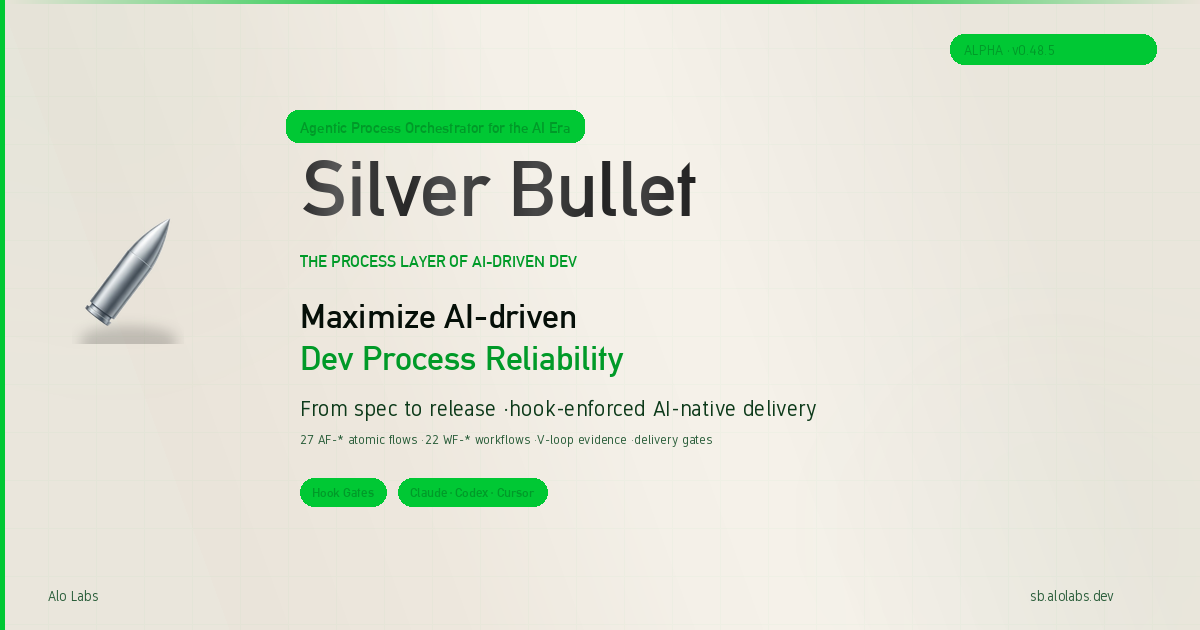
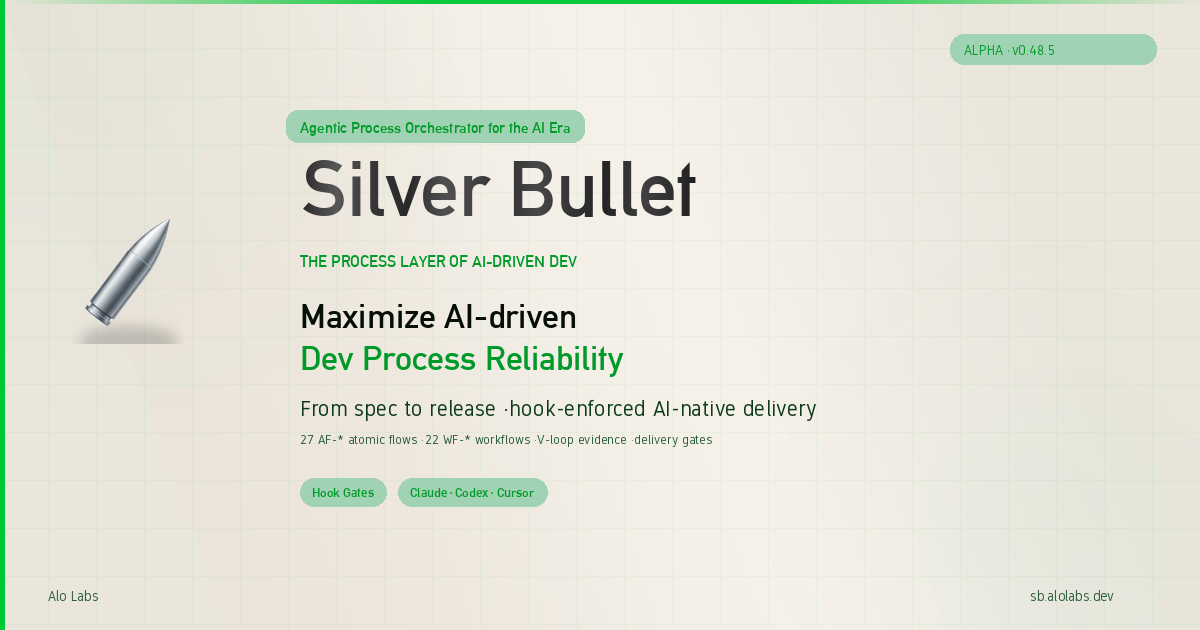
fix(site): align OG image greens with design tokens
Load accent, accent-light, grad, mint, and text colors from tokens.css
in gen_og_image.py so the PNG cannot drift from the homepage palette.
Switch pill/badge chrome to mint token fills and borders matching the
hero, and wire og-card.html through tokens.css CSS custom properties.

Changed region(s): [[0.2158, 0.1508, 0.4933, 0.2413], [0.7708, 0.0302, 0.9867, 0.1206], [0.2467, 0.754, 0.4625, 0.8143]]

diff --git a/site/og-card.html b/site/og-card.html
@@ -3,29 +3,25 @@
 <head>
 <meta charset="utf-8">
 <title>Silver Bullet Social Preview (light)</title>
+<link rel="stylesheet" href="tokens.css">
 <link rel="preconnect" href="https://fonts.googleapis.com">
 <link rel="preconnect" href="https://fonts.gstatic.com" crossorigin>
 <link href="https://fonts.googleapis.com/css2?family=IBM+Plex+Mono:wght@500;600&display=swap" rel="stylesheet">
 <style>
-  @font-face{
-    font-family:'D-Din';
-    src:url('fonts/D-DIN-Bold.woff2') format('woff2');
-    font-weight:700;font-style:normal;font-display:swap;
-  }
   *{margin:0;padding:0;box-sizing:border-box}
   html,body{width:1200px;height:630px;overflow:hidden}
   body{
-    background:linear-gradient(160deg,#eae4da 0%,#eee8de 25%,#f4f0e8 48%,#f6f2ea 62%,#f0ece4 80%,#eae6dc 100%);
-    font-family:'D-Din',system-ui,sans-serif;
+    background:var(--bg-hero);
+    font-family:var(--font-heading);
     position:relative;
-    color:#050f08;
+    color:var(--text-primary);
   }
 
   .grid-bg{
     position:absolute;inset:0;
     background-image:
-      linear-gradient(rgba(0,200,52,.05) 1px,transparent 1px),
-      linear-gradient(90deg,rgba(0,200,52,.05) 1px,transparent 1px);
+      linear-gradient(color-mix(in srgb, var(--accent) 5%, transparent) 1px, transparent 1px),
+      linear-gradient(90deg, color-mix(in srgb, var(--accent) 5%, transparent) 1px, transparent 1px);
     background-size:48px 48px;
     mask-image:radial-gradient(ellipse 80% 70% at 30% 50%,#000 20%,transparent 75%);
     pointer-events:none;
@@ -33,32 +29,32 @@
 
   .glow-left{
     position:absolute;width:520px;height:520px;border-radius:50%;
-    background:radial-gradient(circle,rgba(160,210,180,.28) 0%,transparent 68%);
+    background:radial-gradient(circle,var(--mint-a28) 0%,transparent 68%);
     top:50%;left:18%;transform:translate(-50%,-50%);pointer-events:none;
   }
   .glow-right{
     position:absolute;width:400px;height:400px;border-radius:50%;
-    background:radial-gradient(circle,rgba(160,210,180,.18) 0%,transparent 70%);
+    background:radial-gradient(circle,var(--mint-a18) 0%,transparent 70%);
     bottom:-80px;right:-40px;pointer-events:none;
   }
 
   .border-top{
     position:absolute;top:0;left:0;right:0;height:3px;
-    background:linear-gradient(90deg,transparent 5%,#00c834 35%,#009a28 50%,#00c834 65%,transparent 95%);
+    background:linear-gradient(90deg,transparent 5%,var(--accent) 35%,var(--accent-light) 50%,var(--accent) 65%,transparent 95%);
   }
   .border-left{
     position:absolute;top:0;left:0;bottom:0;width:4px;
-    background:linear-gradient(180deg,#00c834,#006fa8 55%,transparent);
+    background:linear-gradient(180deg,var(--accent),var(--accent2) 55%,transparent);
     opacity:.75;
   }
 
   .version-badge{
     position:absolute;top:28px;right:36px;
-    font-family:'IBM Plex Mono',monospace;
+    font-family:var(--font-mono);
     font-size:12px;font-weight:600;letter-spacing:.06em;
-    color:#009a28;
-    background:rgba(0,200,52,.10);
-    border:1px solid rgba(0,200,52,.35);
+    color:var(--accent-light);
+    background:linear-gradient(135deg,var(--mint-a14),var(--accent-a08),var(--mint-a12));
+    border:1px solid var(--mint-a35);
     border-radius:999px;
     padding:6px 14px;
     z-index:2;
@@ -76,7 +72,7 @@
   }
   .bullet{
     width:120px;
-    filter:drop-shadow(0 8px 24px rgba(0,200,52,.12)) drop-shadow(3px 6px 10px rgba(0,0,0,.18));
+    filter:drop-shadow(0 8px 24px var(--accent-glow)) drop-shadow(3px 6px 10px rgba(0,0,0,.18));
   }
 
   .text-col{
@@ -88,9 +84,9 @@
   .label{
     display:inline-block;align-self:flex-start;
     font-size:12px;font-weight:700;letter-spacing:.08em;
-    color:#009a28;
-    background:rgba(0,200,52,.10);
-    border:1px solid rgba(0,200,52,.30);
+    color:var(--accent-light);
+    background:linear-gradient(135deg,var(--mint-a14),var(--accent-a08),var(--mint-a12));
+    border:1px solid var(--mint-a28);
     border-radius:999px;padding:6px 14px;
   }
 
@@ -99,7 +95,7 @@
     letter-spacing:-.04em;
   }
   h1 .silver-bullet{
-    background:linear-gradient(90deg,#2a2a2a 0%,#585858 9%,#383838 18%,#282828 27%,#505050 36%,#444444 43%,#303030 51%,#484848 59%,#343434 68%,#242424 76%,#404040 86%,#1e1e1e 100%);
+    background:var(--chrome-gradient);
     -webkit-background-clip:text;
     -webkit-text-fill-color:transparent;
     background-clip:text;
@@ -108,46 +104,46 @@
 
   .tagline-caps{
     font-size:13px;font-weight:700;letter-spacing:.22em;
-    color:#009a28;text-transform:uppercase;
+    color:var(--accent-light);text-transform:uppercase;
   }
 
   .sub-heading{
     font-size:30px;font-weight:800;letter-spacing:-.03em;
-    color:#050f08;line-height:1.2;
+    color:var(--text-primary);line-height:1.2;
   }
   .sub-heading em{
     font-style:normal;
-    color:#009a28;
+    color:var(--accent-light);
   }
 
   .desc{
-    font-size:16px;line-height:1.65;color:#0d3a1a;
+    font-size:16px;line-height:1.65;color:var(--text-secondary);
     max-width:680px;
   }
 
   .pills{display:flex;gap:10px;flex-wrap:wrap;margin-top:4px}
   .pill{
     font-size:11px;font-weight:600;letter-spacing:.04em;
-    color:#009a28;
-    background:rgba(0,200,52,.08);
-    border:1px solid rgba(0,200,52,.28);
+    color:var(--accent-light);
+    background:linear-gradient(135deg,var(--mint-a13),var(--accent-a08),var(--mint-a10));
+    border:1px solid var(--mint-a28);
     border-radius:999px;padding:6px 14px;
   }
   .pill.muted{
-    color:#285c38;
+    color:var(--text-dim);
     background:rgba(236,230,220,.65);
-    border-color:rgba(140,196,164,.55);
+    border-color:var(--border);
   }
 
   .footer-url{
     position:absolute;bottom:24px;right:36px;
-    font-family:'IBM Plex Mono',monospace;
-    font-size:11px;color:#285c38;letter-spacing:.02em;
+    font-family:var(--font-mono);
+    font-size:11px;color:var(--text-dim);letter-spacing:.02em;
   }
   .footer-brand{
     position:absolute;bottom:24px;left:48px;
-    font-family:'IBM Plex Mono',monospace;
-    font-size:11px;color:#285c38;letter-spacing:.02em;
+    font-family:var(--font-mono);
+    font-size:11px;color:var(--text-dim);letter-spacing:.02em;
   }
 </style>
 </head>

diff --git a/site/gen_og_image.py b/site/gen_og_image.py
@@ -3,11 +3,13 @@
 from __future__ import annotations
 
 import math
+import re
 from pathlib import Path
 
 from PIL import Image, ImageDraw, ImageFilter, ImageFont
 
 ROOT = Path(__file__).resolve().parent
+TOKENS_CSS = ROOT / "tokens.css"
 OUT = ROOT / "og-image.png"
 BULLET = ROOT / "silver-bullet.png"
 FONT_BOLD = ROOT / "fonts" / "alte-din-1451-mittelschrift.regular.ttf"
@@ -23,12 +25,6 @@ BG_STOPS = [
     (0.80, (240, 236, 228)),
     (1.00, (234, 230, 220)),
 ]
-ACCENT = (0, 200, 52)
-ACCENT_LIGHT = (0, 154, 40)
-TEXT_PRIMARY = (5, 15, 8)
-TEXT_SECONDARY = (13, 58, 26)
-TEXT_DIM = (40, 92, 56)
-MINT_GLOW = (160, 210, 180)
 
 CHROME_STOPS = [
     (0.00, (42, 42, 42)),
@@ -44,6 +40,57 @@ CHROME_STOPS = [
     (0.86, (64, 64, 64)),
     (1.00, (30, 30, 30)),
 ]
+
+
+def _parse_hex(value: str) -> tuple[int, int, int]:
+    value = value.strip().lstrip("#")
+    return (int(value[0:2], 16), int(value[2:4], 16), int(value[4:6], 16))
+
+
+def _parse_rgba(value: str) -> tuple[int, int, int, float]:
+    parts = [part.strip() for part in value.removeprefix("rgba(").removesuffix(")").split(",")]
+    return (int(parts[0]), int(parts[1]), int(parts[2]), float(parts[3]))
+
+
+def load_light_tokens(path: Path) -> dict[str, str]:
+    text = path.read_text(encoding="utf-8")
+    dark_idx = text.find('[data-theme="dark"]')
+    root_text = text[:dark_idx] if dark_idx >= 0 else text
+    return {
+        match.group(1): match.group(2).strip()
+        for match in re.finditer(r"--([\w-]+)\s*:\s*([^;]+);", root_text)
+    }
+
+
+def _token_rgb(tokens: dict[str, str], name: str) -> tuple[int, int, int]:
+    value = tokens[name]
+    if value.startswith("#"):
+        return _parse_hex(value)
+    raise ValueError(f"Token --{name} is not a hex color: {value!r}")
+
+
+def _token_rgba(tokens: dict[str, str], name: str) -> tuple[int, int, int, float]:
+    return _parse_rgba(tokens[name])
+
+
+def _alpha255(alpha: float) -> int:
+    return max(0, min(255, int(round(alpha * 255))))
+
+
+TOKENS = load_light_tokens(TOKENS_CSS)
+ACCENT = _token_rgb(TOKENS, "accent")
+ACCENT_LIGHT = _token_rgb(TOKENS, "accent-light")
+ACCENT2 = _token_rgb(TOKENS, "accent2")
+TEXT_PRIMARY = _token_rgb(TOKENS, "text-primary")
+TEXT_SECONDARY = _token_rgb(TOKENS, "text-secondary")
+TEXT_DIM = _token_rgb(TOKENS, "text-dim")
+GRAD_1 = _token_rgb(TOKENS, "grad-1")
+GRAD_2 = _token_rgb(TOKENS, "grad-2")
+MINT_GLOW = _token_rgba(TOKENS, "mint-a28")[:3]
+MINT_FILL = _token_rgba(TOKENS, "mint-a14")
+MINT_OUTLINE = _token_rgba(TOKENS, "mint-a28")
+MINT_BADGE_OUTLINE = _token_rgba(TOKENS, "mint-a35")
+GRID_ALPHA = _alpha255(0.05)
 
 
 def lerp_color(c0: tuple[int, int, int], c1: tuple[int, int, int], t: float) -> tuple[int, int, int]:
@@ -98,7 +145,7 @@ def add_grid(canvas: Image.Image) -> None:
     grid = Image.new("RGBA", canvas.size, (0, 0, 0, 0))
     draw = ImageDraw.Draw(grid)
     step = 48
-    line = (*ACCENT, 6)
+    line = (*ACCENT, GRID_ALPHA)
     for x in range(0, W, step):
         draw.line((x, 0, x, H), fill=line, width=1)
     for y in range(0, H, step):
@@ -136,8 +183,8 @@ def rounded_rect(
 
 def main() -> None:
     base = gradient_bg(W, H).convert("RGBA")
-    add_glow(base, 120, 80, 320, MINT_GLOW, 0.12)
-    add_glow(base, 1050, 520, 260, MINT_GLOW, 0.10)
+    add_glow(base, 120, 80, 320, MINT_GLOW, MINT_FILL[3])
+    add_glow(base, 1050, 520, 260, MINT_GLOW, _token_rgba(TOKENS, "mint-a18")[3])
     add_grid(base)
     draw = ImageDraw.Draw(base)
 
@@ -182,8 +229,8 @@ def main() -> None:
         draw,
         (W - 250, 34, W - 44, 64),
         14,
-        fill=(*ACCENT, 22),
-        outline=(*ACCENT, 70),
+        fill=(*MINT_FILL[:3], _alpha255(MINT_FILL[3])),
+        outline=(*MINT_BADGE_OUTLINE[:3], _alpha255(MINT_BADGE_OUTLINE[3])),
         width=1,
     )
     draw.text((W - 236, 42), "ALPHA · v0.48.5", font=font_mono, fill=ACCENT_LIGHT)
@@ -192,7 +239,13 @@ def main() -> None:
     lb = font_label.getbbox(label)
     lw = lb[2] - lb[0]
     lx, ly = 300, 118
-    rounded_rect(draw, (lx - 14, ly - 8, lx + lw + 14, ly + 24), 12, fill=(*ACCENT, 18), outline=(*ACCENT, 55))
+    rounded_rect(
+        draw,
+        (lx - 14, ly - 8, lx + lw + 14, ly + 24),
+        12,
+        fill=(*MINT_FILL[:3], _alpha255(MINT_FILL[3])),
+        outline=(*MINT_OUTLINE[:3], _alpha255(MINT_OUTLINE[3])),
+    )
     draw.text((lx, ly), label, font=font_label, fill=ACCENT_LIGHT)
 
     draw_gradient_text(base, (300, 158), "Silver Bullet", font_title, chrome_grad)
@@ -200,7 +253,12 @@ def main() -> None:
     draw.text((300, 296), "Maximize AI-driven", font=font_headline, fill=TEXT_PRIMARY)
     draw.text((300, 338), "Dev Process Reliability", font=font_headline, fill=ACCENT_LIGHT)
     draw.text((300, 396), "From spec to release · hook-enforced AI-native delivery", font=font_sub, fill=TEXT_SECONDARY)
-    draw.text((300, 432), "27 AF-* atomic flows · 22 WF-* workflows · V-loop evidence · delivery gates", font=font_small, fill=TEXT_DIM)
+    draw.text(
+        (300, 432),
+        "27 AF-* atomic flows · 22 WF-* workflows · V-loop evidence · delivery gates",
+        font=font_small,
+        fill=TEXT_DIM,
+    )
 
     pills = ["Hook Gates", "Claude · Codex · Cursor"]
     px = 300
@@ -208,7 +266,13 @@ def main() -> None:
     for pill in pills:
         pb = font_pill.getbbox(pill)
         pw = pb[2] - pb[0]
-        rounded_rect(draw, (px, py, px + pw + 24, py + 28), 14, fill=(*ACCENT, 16), outline=(*ACCENT, 48))
+        rounded_rect(
+            draw,
+            (px, py, px + pw + 24, py + 28),
+            14,
+            fill=(*MINT_FILL[:3], _alpha255(MINT_FILL[3])),
+            outline=(*MINT_OUTLINE[:3], _alpha255(MINT_OUTLINE[3])),
+        )
         draw.text((px + 12, py + 6), pill, font=font_pill, fill=ACCENT_LIGHT)
         px += pw + 36
 
@@ -218,6 +282,13 @@ def main() -> None:
     final = base.convert("RGB")
     final.save(OUT, "PNG", optimize=True)
     print(f"Saved {OUT} ({final.size[0]}x{final.size[1]})")
+    print(
+        "Tokens:",
+        f"accent=#{ACCENT[0]:02x}{ACCENT[1]:02x}{ACCENT[2]:02x}",
+        f"accent-light=#{ACCENT_LIGHT[0]:02x}{ACCENT_LIGHT[1]:02x}{ACCENT_LIGHT[2]:02x}",
+        f"grad-1=#{GRAD_1[0]:02x}{GRAD_1[1]:02x}{GRAD_1[2]:02x}",
+        f"grad-2=#{GRAD_2[0]:02x}{GRAD_2[1]:02x}{GRAD_2[2]:02x}",
+    )
 
 
 if __name__ == "__main__":
